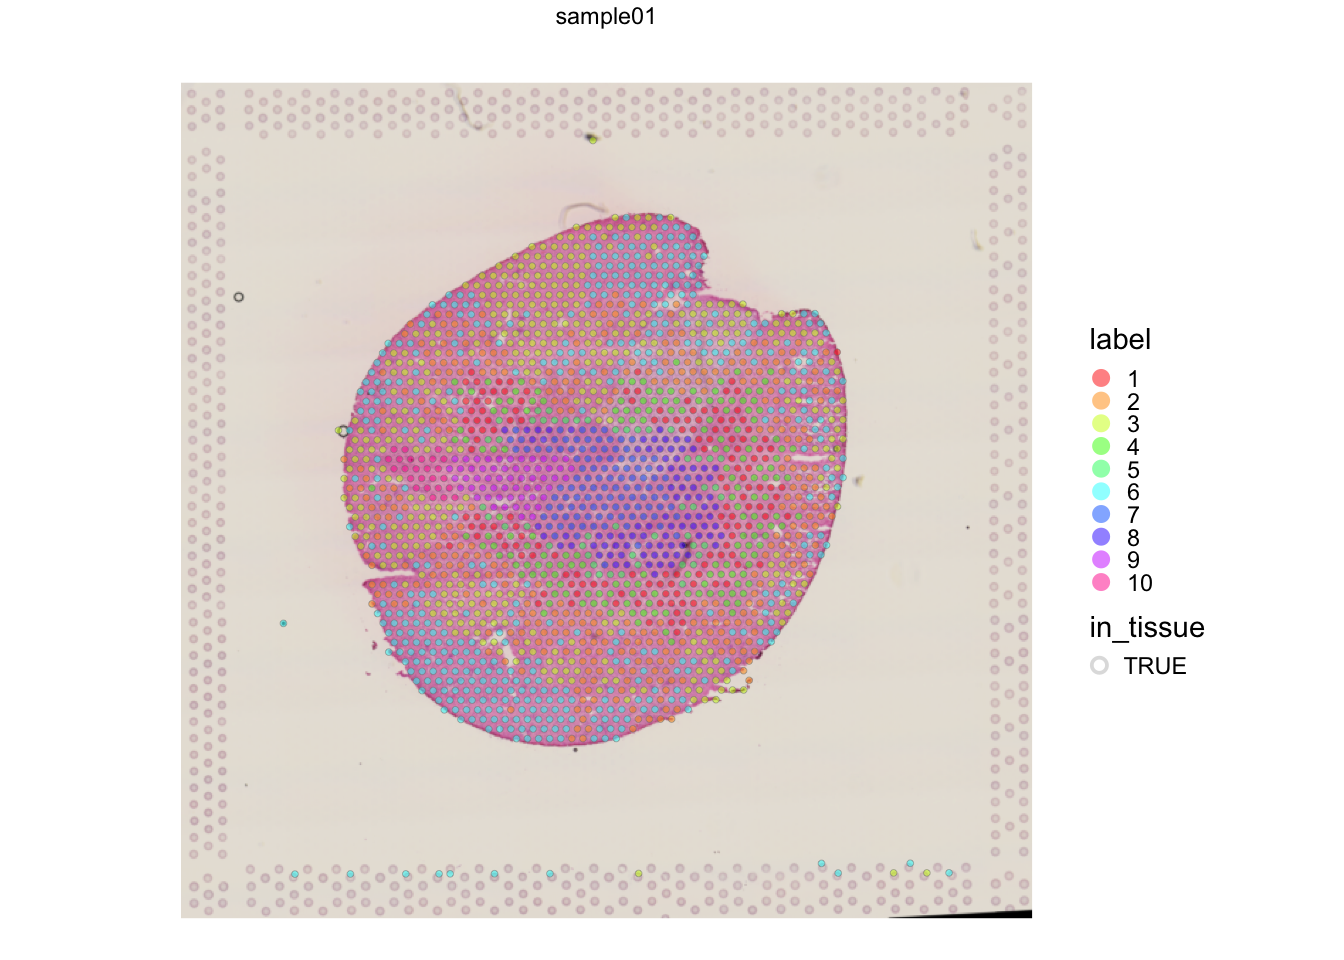
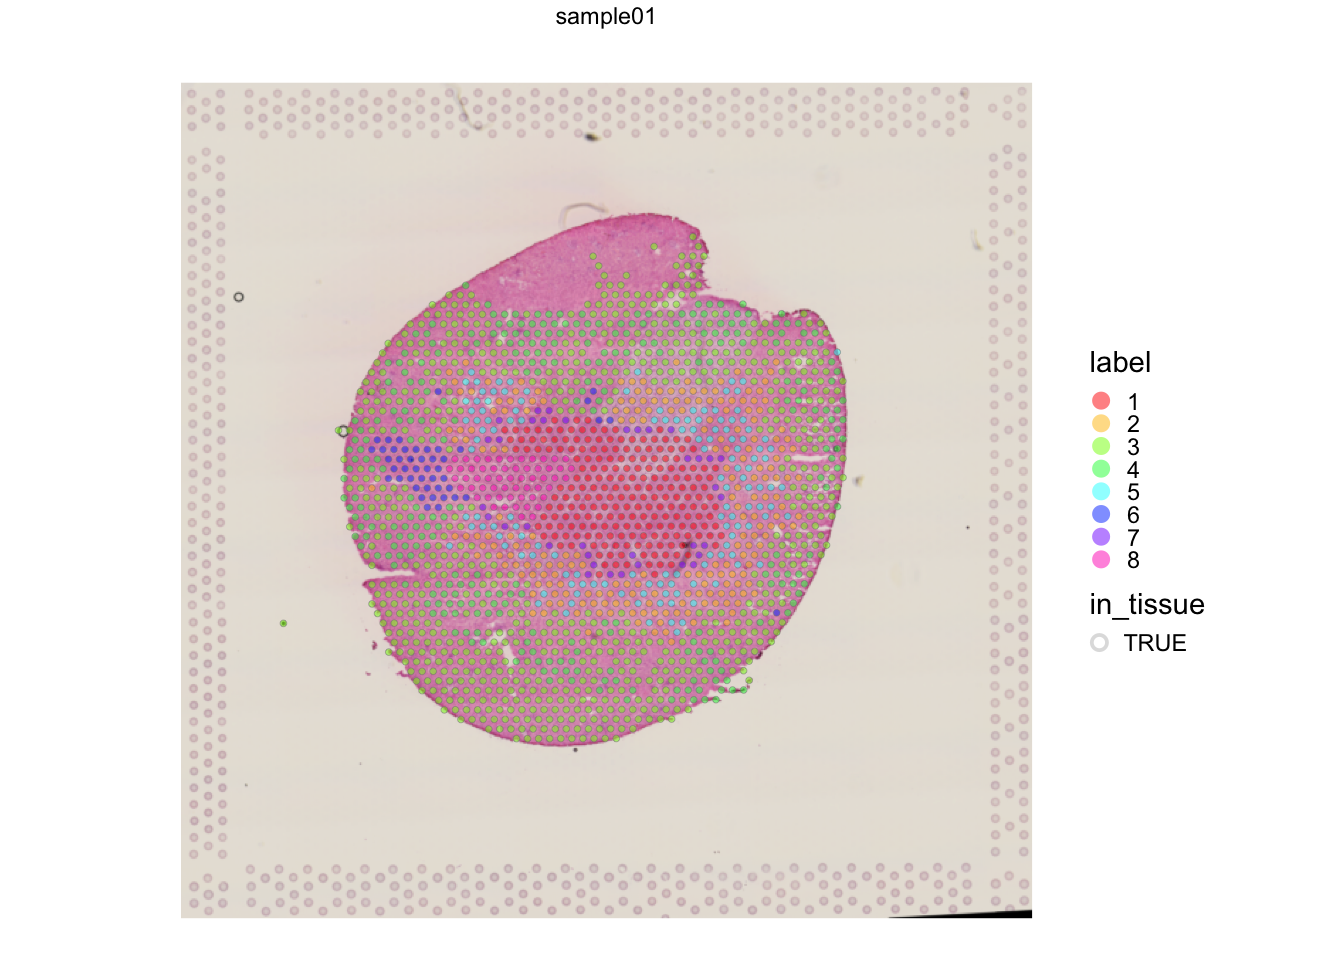
Site Update

Changed region(s): [[0.25, 0.2188, 0.625, 0.7812], [0.8125, 0.5312, 0.9062, 0.7188], [0.8125, 0.3438, 0.875, 0.5]]

diff --git a/docs/SpatialVis.html b/docs/SpatialVis.html
@@ -389,8 +389,7 @@ div.tocify {
 <p><strong>Spatial Transcriptomics analysis based on <a
 href="https://lmweber.org/OSTA-book/analysis-steps.html"
 class="uri">https://lmweber.org/OSTA-book/analysis-steps.html</a></strong></p>
-<p>For both practice data from github and from mice kidney paper.
-(recommit)</p>
+<p>For both practice data from github and from mice kidney paper.</p>
 <div id="load-the-data" class="section level1">
 <h1>Load the data</h1>
 <p>Create a Spatial Experiment object.</p>
@@ -429,7 +428,7 @@ plotVisium(shamKidney)</code></pre>
 </div>
 <div id="filtering-and-normalization" class="section level1">
 <h1>Filtering and Normalization</h1>
-<pre class="r"><code># add some values in &#39;colData&#39; to annotate spots, also done by addPerCellQC function
+<pre class="r"><code># add some values in &#39;colData&#39; to annotate spots, also done by addPerCellQC function, 
 # colData(shamKidney)$sum &lt;- colSums(counts(shamKidney))
 
 #All spots already in tissue because using filtered data
@@ -448,7 +447,7 @@ table(is_mito)</code></pre>
 <pre class="r"><code>rowData(shamKidney)$symbol[is_mito]</code></pre>
 <pre><code>##  [1] &quot;mt-Nd1&quot;  &quot;mt-Nd2&quot;  &quot;mt-Co1&quot;  &quot;mt-Co2&quot;  &quot;mt-Atp8&quot; &quot;mt-Atp6&quot; &quot;mt-Co3&quot; 
 ##  [8] &quot;mt-Nd3&quot;  &quot;mt-Nd4l&quot; &quot;mt-Nd4&quot;  &quot;mt-Nd5&quot;  &quot;mt-Nd6&quot;  &quot;mt-Cytb&quot;</code></pre>
-<pre class="r"><code>shamKidney &lt;- addPerCellQC(shamKidney, subsets = list(mito = is_mito))
+<pre class="r"><code>shamKidney &lt;- addPerCellQC(shamKidney, subsets = list(mito=is_mito))
 head(colData(shamKidney))</code></pre>
 <pre><code>## DataFrame with 6 rows and 10 columns
 ##                    in_tissue array_row array_col   sample_id       sum
@@ -478,7 +477,7 @@ head(colData(shamKidney))</code></pre>
 <pre class="r"><code>plotVisium(shamKidney, fill = &quot;sum&quot;, trans = &quot;log&quot;, highlight = &quot;in_tissue&quot;)</code></pre>
 <p><img src="SpatialVis_files/figure-html/unnamed-chunk-4-1.png" width="672" /></p>
 <p>Thresholds can be used as QC to remove spots that don’t meet metrics.
-Includes among others:</p>
+Including but not limited to:</p>
 <ol style="list-style-type: decimal">
 <li><p>Library size</p></li>
 <li><p>Expressed genes</p></li>
@@ -486,6 +485,10 @@ Includes among others:</p>
 example)</p></li>
 <li><p>Cells per spot (If available for dataset)</p></li>
 </ol>
+<p>Appears to be a spike at low library sizes? An increased number of
+spots with low number of transcripts around 1000 which can be filtered
+out. Need to doublecheck the difference between UMIs and expressed
+genes.</p>
 <pre class="r"><code>hist(colData(shamKidney)$sum, breaks = 20) # Library Size, total sum of UMI counts per spot (included in sum column)</code></pre>
 <p><img src="SpatialVis_files/figure-html/unnamed-chunk-5-1.png" width="672" /></p>
 <pre class="r"><code>hist(colData(shamKidney)$detected, breaks = 20) # Number of expressed genes per spot (detected column)</code></pre>
@@ -493,25 +496,26 @@ example)</p></li>
 <pre class="r"><code>hist(colData(shamKidney)$subsets_mito_percent, breaks = 20) # Proportion of mitochondrial genes per spot</code></pre>
 <p><img src="SpatialVis_files/figure-html/unnamed-chunk-5-3.png" width="672" /></p>
 <pre class="r"><code># select QC threshold for library size
-qc_lib_size &lt;- colData(shamKidney)$sum &lt; 5000
+qc_lib_size &lt;- colData(shamKidney)$sum &lt; 1500
 table(qc_lib_size)</code></pre>
 <pre><code>## qc_lib_size
 ## FALSE  TRUE 
-##  1217   683</code></pre>
+##  1731   169</code></pre>
 <pre class="r"><code>colData(shamKidney)$qc_lib_size &lt;- qc_lib_size
 
 # check spatial pattern of discarded spots
 plotQC(shamKidney, type = &quot;spots&quot;, 
        discard = &quot;qc_lib_size&quot;)</code></pre>
 <p><img src="SpatialVis_files/figure-html/unnamed-chunk-5-4.png" width="672" /></p>
-<pre class="r"><code># # combined set of discarded spots
-# discard &lt;- qc_lib_size | qc_detected | qc_mito | qc_cell_count
-# colData(spe)$discard &lt;- discard
+<p>Remove and filter any low quality spots. Only based on UMIs</p>
+<pre class="r"><code># combined set of discarded spots
+discard &lt;- qc_lib_size
+colData(shamKidney)$discard &lt;- discard
 
-# # filter low-quality spots
-# spe &lt;- spe[, !colData(spe)$discard]</code></pre>
+# filter low-quality spots
+shamKidney &lt;- shamKidney[, !colData(shamKidney)$discard]</code></pre>
 <p>Log based normalization can be performed to scale data approximately
-and create clusters. Is this necessary for filtered data?</p>
+and create clusters.</p>
 </div>
 <div id="clustering-and-visualization" class="section level1">
 <h1>Clustering and Visualization</h1>
@@ -522,9 +526,9 @@ qclus &lt;- quickCluster(shamKidney)
 shamKidney &lt;- computeSumFactors(shamKidney, cluster = qclus)
 summary(sizeFactors(shamKidney))</code></pre>
 <pre><code>##    Min. 1st Qu.  Median    Mean 3rd Qu.    Max. 
-## 0.04858 0.49883 0.88176 1.00000 1.44200 3.10954</code></pre>
+##  0.1591  0.5492  0.9118  1.0000  1.3973  2.7630</code></pre>
 <pre class="r"><code>hist(sizeFactors(shamKidney), breaks = 20)</code></pre>
-<p><img src="SpatialVis_files/figure-html/unnamed-chunk-6-1.png" width="672" /></p>
+<p><img src="SpatialVis_files/figure-html/unnamed-chunk-7-1.png" width="672" /></p>
 <pre class="r"><code>shamKidney &lt;-  logNormCounts(shamKidney)
 assayNames(shamKidney)</code></pre>
 <pre><code>## [1] &quot;counts&quot;    &quot;logcounts&quot;</code></pre>
@@ -538,17 +542,36 @@ selection based on SPARK-X package, HVG based on scran package</p>
 deCells &lt;-  modelGeneVar(shamKidney)
 
 fit &lt;-  metadata(deCells)
+
 plot(fit$mean, fit$var, 
      xlab = &quot;mean of log-expression&quot;, ylab = &quot;variance of log-expression&quot;)
 curve(fit$trend(x), col = &quot;dodgerblue&quot;, add = TRUE, lwd = 2)</code></pre>
-<p><img src="SpatialVis_files/figure-html/unnamed-chunk-7-1.png" width="672" /></p>
+<p><img src="SpatialVis_files/figure-html/getHVGs-1.png" width="672" /></p>
 <pre class="r"><code>top_hvgs &lt;- getTopHVGs(deCells, prop = 0.1) #prop defines how many HVGS are wanted, 0.1 returns top 10% of genes
 length(top_hvgs)</code></pre>
-<pre><code>## [1] 623</code></pre>
-<p>PCA and UMAP can be easily produced. How do PCA/UMAP plots compare to
-the plots prpduced by loupe browser for 6week sample? They are different
-but I think different because they have 8 clusters, Compared to my
-6.</p>
+<pre><code>## [1] 446</code></pre>
+<p>plot shows the total UMIs expressed in spots with differentially
+expressed cells. This is the absolute numver of observed transcripts per
+spot in spots expressing genes in the HVG list. (Based on 10x definition
+of UMI, needs to be doublechecked)</p>
+<p>Integration of highly variable genes and spatially variable genes can
+be combines to further identify biologically relevant information not
+cpatured by HVGs alone. Example in Li et al. 2021 combines principal
+components of based on HVGs and SVGs in downstreams analysis.</p>
+<pre class="r"><code>#Delete columns added in first addPerCellQC function to prevent duplicate columns
+shamKidney$sum &lt;- shamKidney$detected &lt;- shamKidney$total &lt;-  NULL
+
+#careful running multiple times, adds duplicate columns and breaks code.
+shamKidney &lt;- addPerCellQC(shamKidney, subsets = list(hvg = top_hvgs))
+# head(colData(shamKidney))
+
+plotSpots(shamKidney, annotate = &quot;subsets_hvg_sum&quot;, palette = c(&quot;whitesmoke&quot;, &quot;red4&quot;))</code></pre>
+<p><img src="SpatialVis_files/figure-html/visualizeHVGs-1.png" width="672" /></p>
+<p>PCA and UMAP can be easily produced.</p>
+<p>How do PCA/UMAP plots compare to the plots prpduced by loupe browser
+for 6week sample? They are different maybe because the number of
+clusters differ. Should they all be the same? How do they differ
+compared to seurat clustering?</p>
 <pre class="r"><code>set.seed(123)
 shamKidney &lt;- runPCA(shamKidney, subset_row = top_hvgs)
 shamKidney &lt;- runUMAP(shamKidney, dimred = &quot;PCA&quot;)
@@ -562,9 +585,9 @@ plotDimRed(shamKidney, type = &quot;PCA&quot;)</code></pre>
 <pre class="r"><code>plotDimRed(shamKidney, type = &quot;UMAP&quot;)</code></pre>
 <p><img src="SpatialVis_files/figure-html/unnamed-chunk-8-2.png" width="672" /></p>
 <p>Produces clusters of HVGs using graph-based clustering based on the
-Walktrap method. Applies to top 50 PCs? (Meaning?)</p>
-<p>Change K values to get number of clusters less than 8. Are less
-clusters better or are more clusters more accurate?</p>
+Walktrap method. Applies to top 50 PCs?</p>
+<p>Change K values to change the number of clusters. Are less clusters
+better or are more clusters better for analysis?</p>
 <pre class="r"><code>set.seed(123)
 k = 20
 g &lt;- buildSNNGraph(shamKidney, k = k, use.dimred = &quot;PCA&quot;) #Graph based clustering
@@ -572,28 +595,29 @@ g_walk &lt;- igraph::cluster_walktrap(g)
 clus &lt;- g_walk$membership
 table(clus)</code></pre>
 <pre><code>## clus
-##   1   2   3   4   5   6   7   8   9  10 
-## 147 366 431 174  49 455 109  87  57  25</code></pre>
+##   1   2   3   4   5   6   7   8 
+## 208 216 727 306 136  45  36  57</code></pre>
 <pre class="r"><code>colLabels(shamKidney) &lt;- factor(clus) #Store cluster labels in column &#39;label&#39; in colData
 
 plotSpots(shamKidney, annotate = &quot;label&quot;,
-          palette = rainbow(10))</code></pre>
+          palette = rainbow(8))</code></pre>
 <p><img src="SpatialVis_files/figure-html/unnamed-chunk-9-1.png" width="672" /></p>
-<pre class="r"><code>plotVisium(shamKidney, fill = &quot;label&quot;, trans = &quot;log&quot;, highlight = &quot;in_tissue&quot;, palette = rainbow(10))</code></pre>
+<pre class="r"><code>plotVisium(shamKidney, fill = &quot;label&quot;, trans = &quot;log&quot;, highlight = &quot;in_tissue&quot;, palette = rainbow(8))</code></pre>
 <p><img src="SpatialVis_files/figure-html/unnamed-chunk-9-2.png" width="672" /></p>
 <pre class="r"><code>plotDimRed(shamKidney, type = &quot;PCA&quot;,
-           annotate = &quot;label&quot;, palette = rainbow(10))</code></pre>
+           annotate = &quot;label&quot;, palette = rainbow(8))</code></pre>
 <p><img src="SpatialVis_files/figure-html/unnamed-chunk-9-3.png" width="672" /></p>
 <pre class="r"><code>plotDimRed(shamKidney, type = &quot;UMAP&quot;,
-           annotate = &quot;label&quot;, palette = rainbow(10))</code></pre>
+           annotate = &quot;label&quot;, palette = rainbow(8))</code></pre>
 <p><img src="SpatialVis_files/figure-html/unnamed-chunk-9-4.png" width="672" /></p>
-<p>Code to identify marker genes, can also be done using Seurat</p>
+<p>Code to identify potential marker genes, can also be done using
+Seurat</p>
 <pre class="r"><code>rownames(shamKidney) &lt;- rowData(shamKidney)$symbol
 
 markers &lt;- findMarkers(shamKidney, test = &#39;binom&#39;, direction = &#39;up&#39;) #Produces list of clusters equal to clusters from graph based
 markers</code></pre>
-<pre><code>## List of length 10
-## names(10): 1 2 3 4 5 6 7 8 9 10</code></pre>
+<pre><code>## List of length 8
+## names(8): 1 2 3 4 5 6 7 8</code></pre>
 <pre class="r"><code>interesting &lt;- markers[[6]] #selection for which cluster
 best_set &lt;- interesting[interesting$Top &lt;= 5, ]
 logFCs &lt;- getMarkerEffects(best_set)
